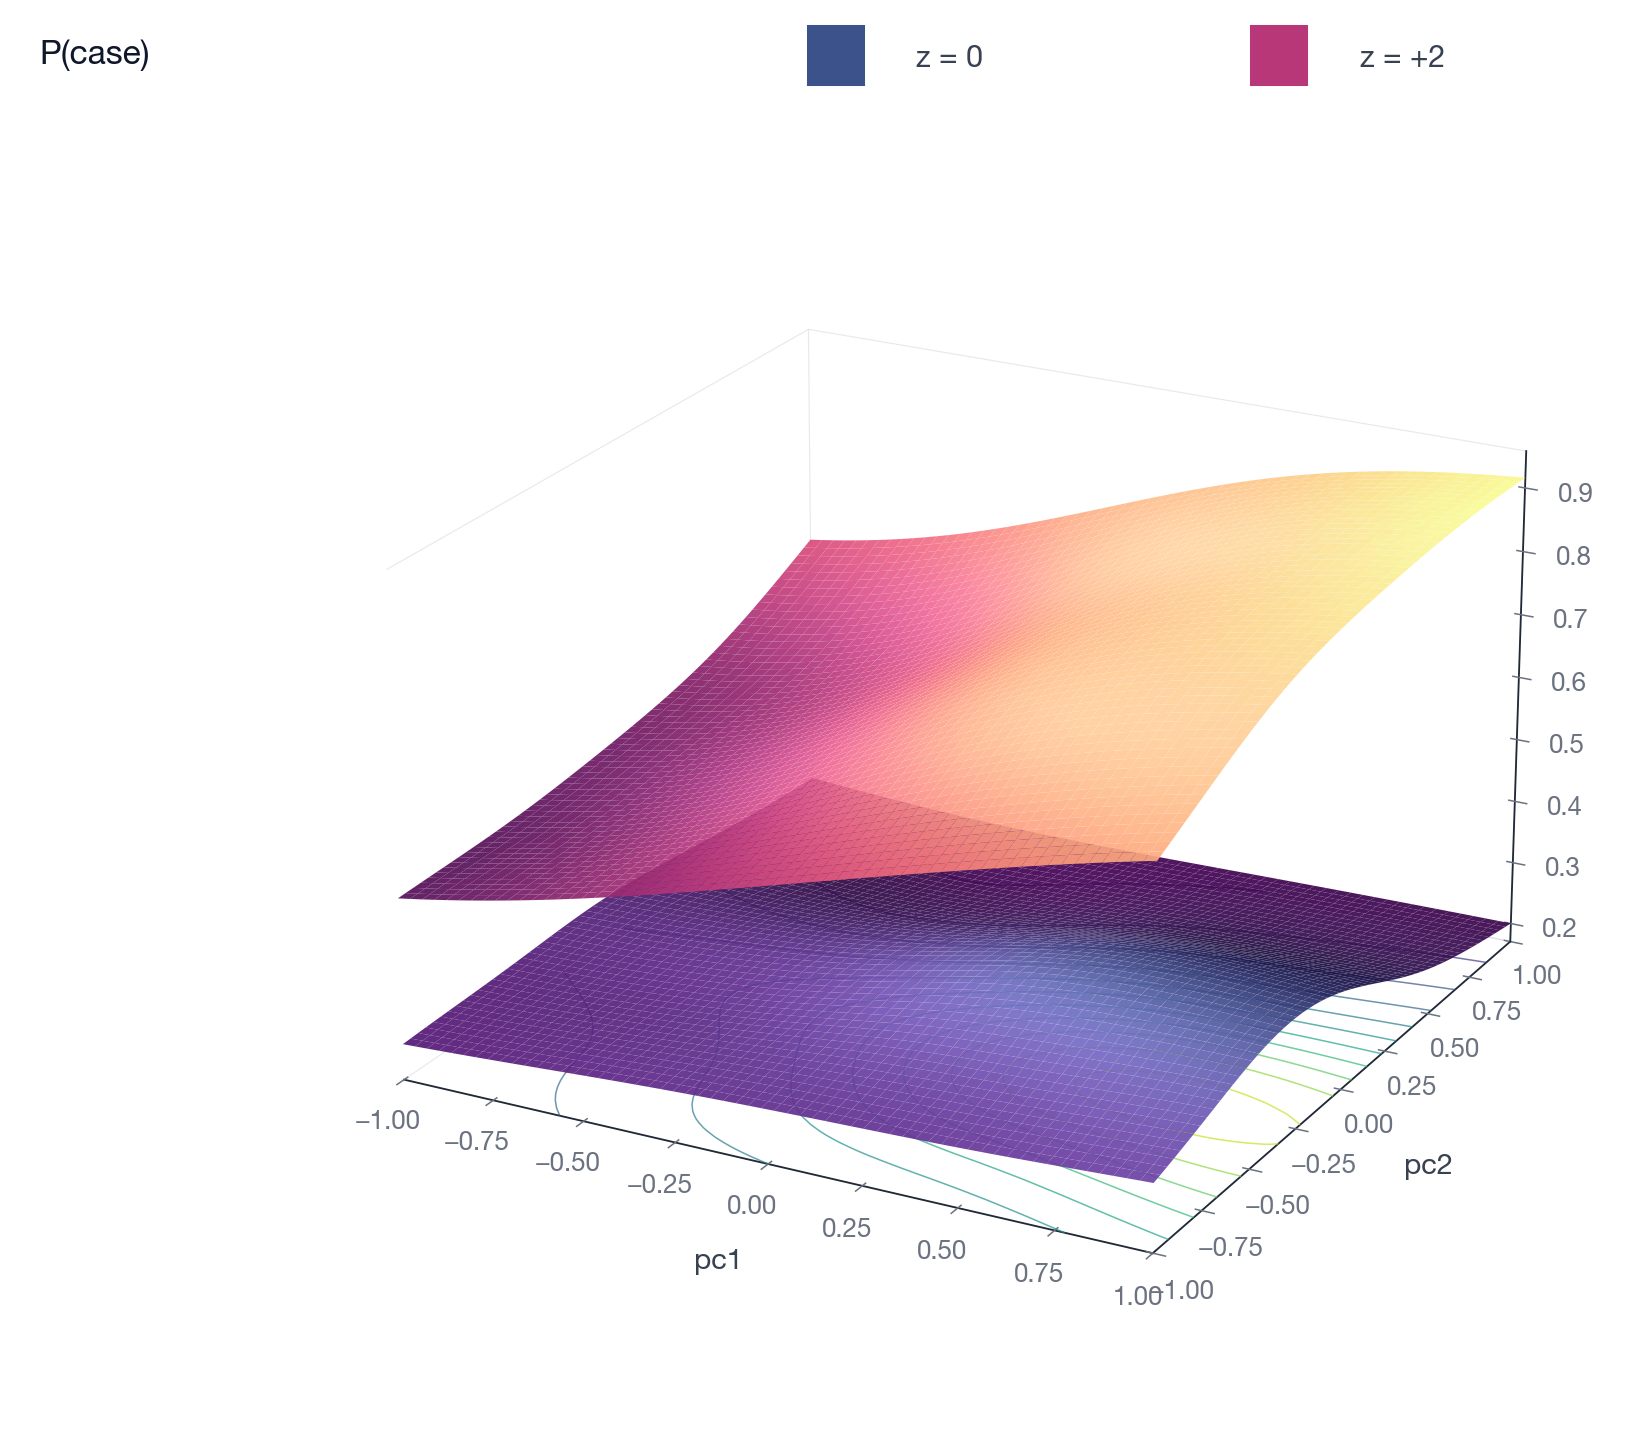
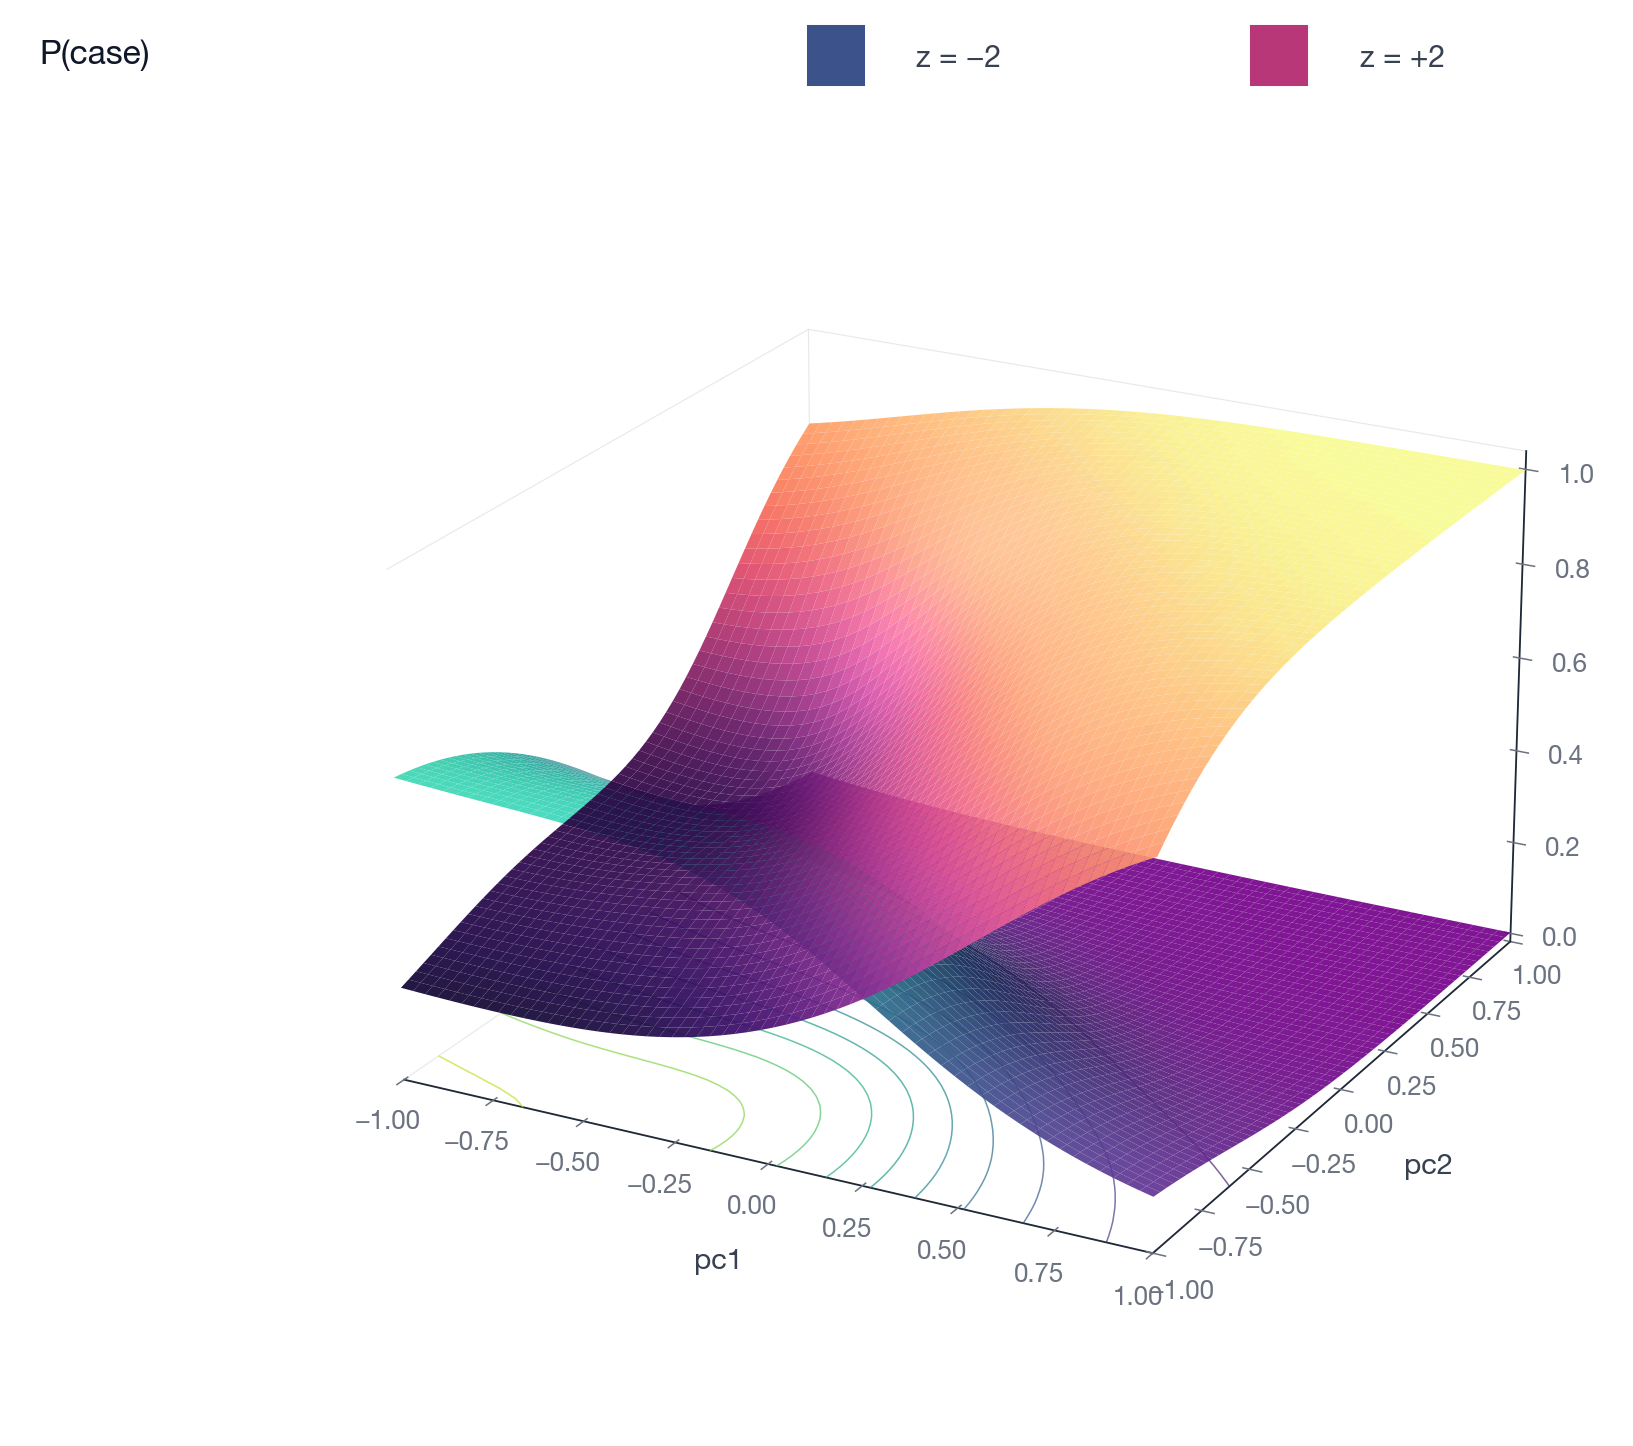
Strengthen marginal-slope spatial heterogeneity for the docs viz
Boost the slope-of-z function so it ranges from clearly-negative in
the bottom-left corner to strongly-positive in the top-right, and
contrast z = -2 vs z = +2 instead of 0 vs +2.  The two surfaces now
visibly cross each other across the (pc1, pc2) plane — which is the
most striking visual expression of "the slope is itself a smooth
function of where you stand in PC space".

diff --git a/scripts/docs_figures/render_all.py b/scripts/docs_figures/render_all.py
@@ -352,18 +352,24 @@ def render_3d_compare(surfaces: dict) -> None:
 def render_marginal_slope_3d() -> None:
     log("[marginal-slope] generating synthetic data")
     rng = np.random.default_rng(2026)
-    n = 1500
+    n = 2000
     pc1 = rng.uniform(-1.0, 1.0, n)
     pc2 = rng.uniform(-1.0, 1.0, n)
     z = rng.standard_normal(n)
 
-    # baseline log-odds + spatially-varying slope-of-z
+    # Baseline log-odds: a gentle peak + valley so the lower surface has
+    # visible structure without dominating.
     baseline = (
-        -1.2
-        + 1.4 * np.exp(-((pc1 - 0.3) ** 2 + (pc2 + 0.2) ** 2) / 0.22)
-        - 0.9 * np.exp(-((pc1 + 0.4) ** 2 + (pc2 - 0.5) ** 2) / 0.18)
+        -0.4
+        + 1.0 * np.exp(-((pc1 - 0.30) ** 2 + (pc2 + 0.20) ** 2) / 0.18)
+        - 0.9 * np.exp(-((pc1 + 0.45) ** 2 + (pc2 - 0.55) ** 2) / 0.16)
     )
-    slope = 0.6 + 1.4 / (1.0 + np.exp(-2.5 * (pc1 + pc2 - 0.4)))
+    # Strongly spatially-varying slope-of-z: negative in the bottom-left
+    # corner, strongly positive in the top-right.  This makes the two
+    # surfaces cross each other across the (pc1, pc2) plane — visually
+    # the most striking expression of "the slope is a smooth function
+    # of where you are".
+    slope = -0.4 + 3.0 / (1.0 + np.exp(-3.5 * (pc1 + pc2 - 0.1)))
     eta = baseline + slope * z
     prob = 1.0 / (1.0 + np.exp(-eta))
     case = (rng.uniform(size=n) < prob).astype(float)
@@ -397,9 +403,9 @@ def render_marginal_slope_3d() -> None:
         m = np.asarray(pred["mean"], dtype=float).reshape(side, side)
         return np.clip(m, 0.0, 1.0)
 
-    log("[marginal-slope] predicting baseline (z=0)")
-    p_base = surface_at(0.0)
-    log("[marginal-slope] predicting elevated (z=+2)")
+    log("[marginal-slope] predicting low z (-2)")
+    p_base = surface_at(-2.0)
+    log("[marginal-slope] predicting high z (+2)")
     p_high = surface_at(+2.0)
 
     vmin = float(min(p_base.min(), p_high.min()))
@@ -441,7 +447,7 @@ def render_marginal_slope_3d() -> None:
              va="center")
     fig.text(0.45, 0.94, "   ", backgroundcolor="#3b528b",
              fontsize=11, color="white", va="center")
-    fig.text(0.495, 0.938, "z = 0",
+    fig.text(0.495, 0.938, "z = −2",
              fontsize=10, color="#374151", va="center")
     fig.text(0.66, 0.94, "   ", backgroundcolor="#b73779",
              fontsize=11, color="white", va="center")